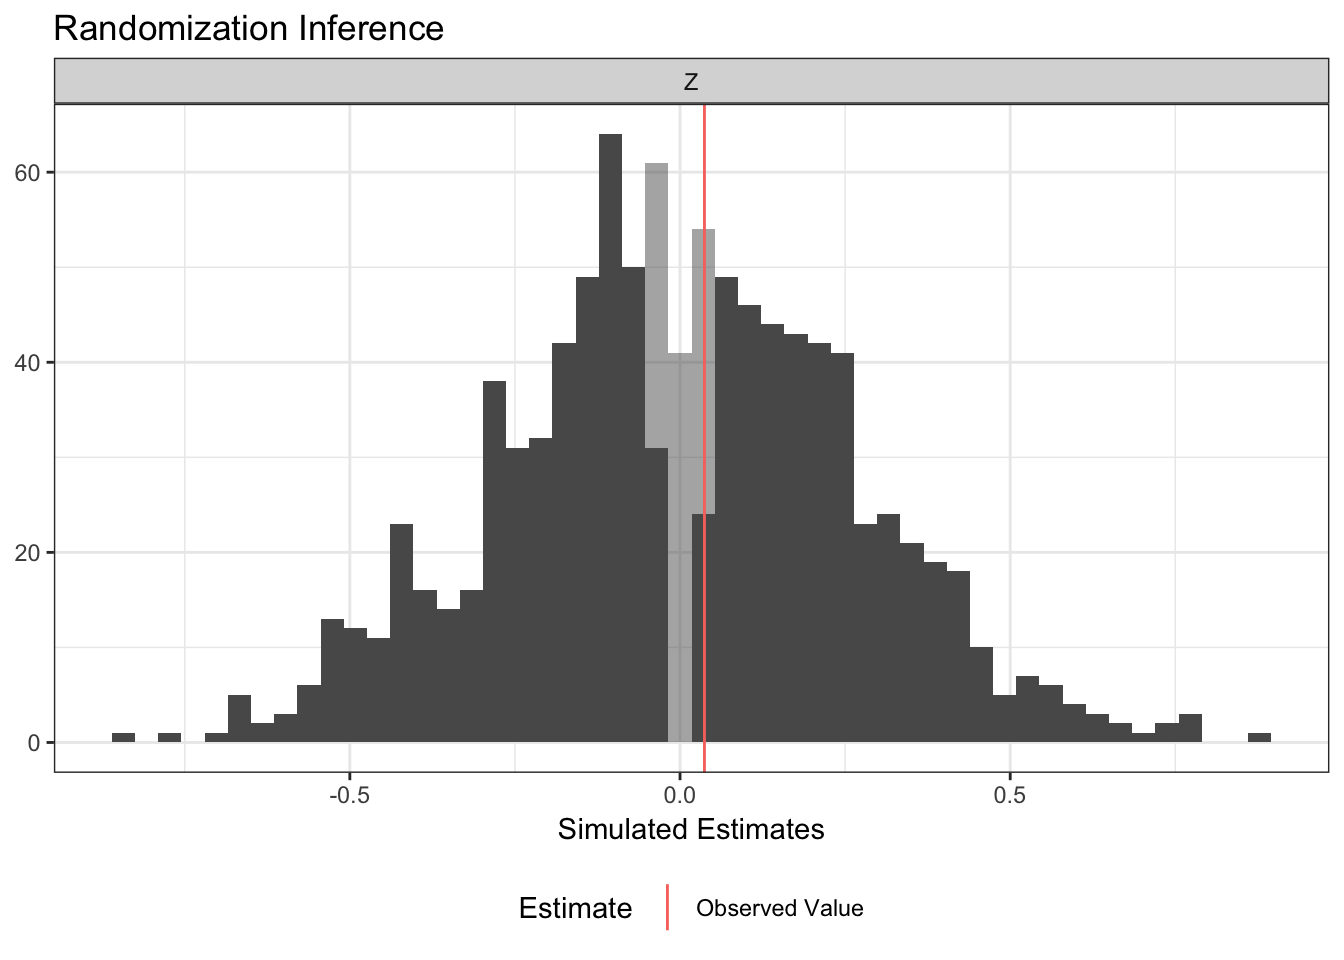
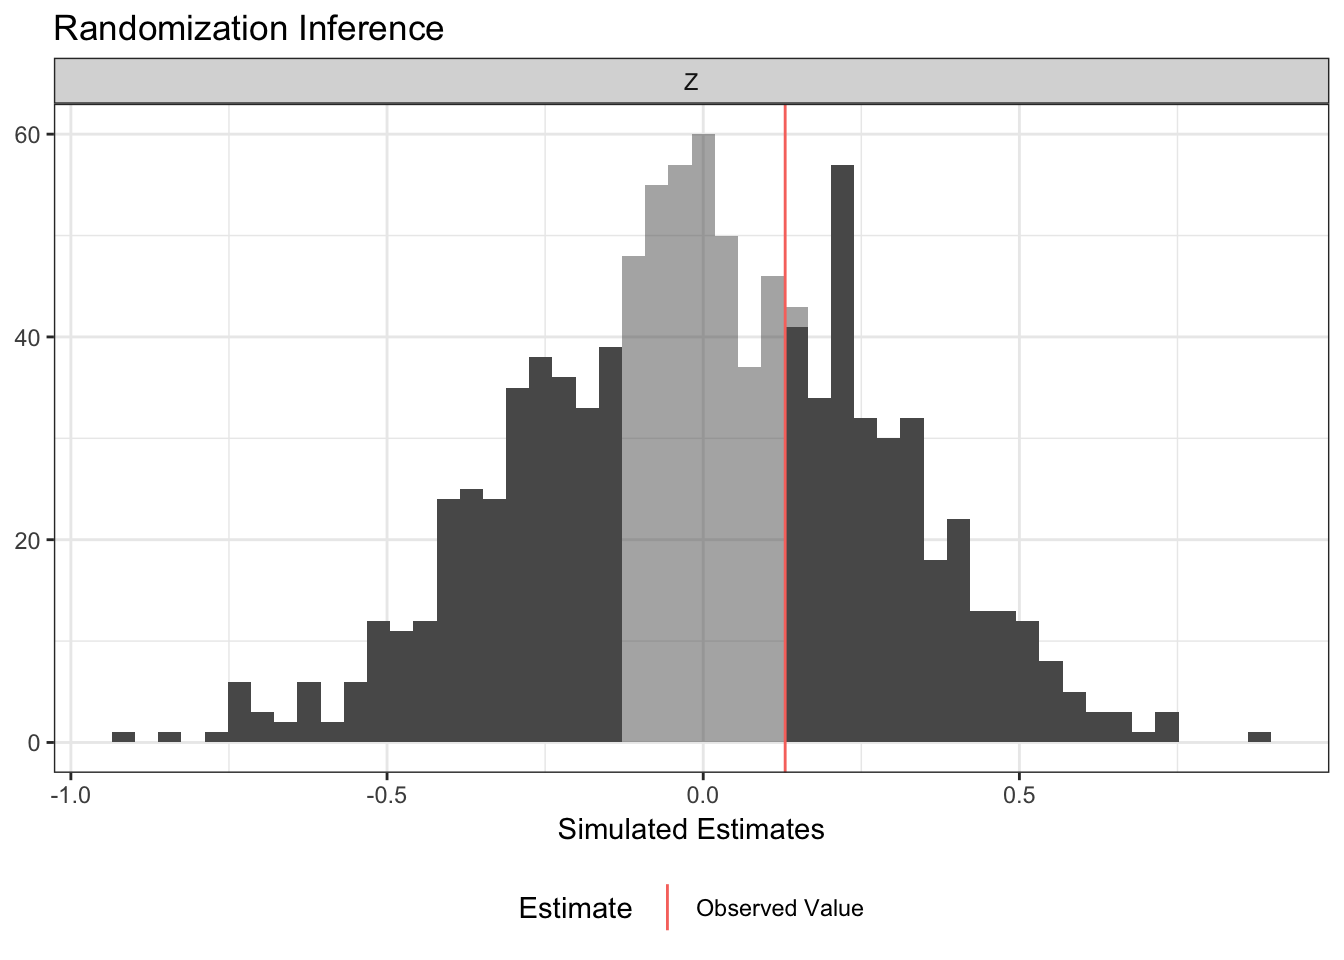
installation instructions

diff --git a/docs/articles/ri2_vignette.html b/docs/articles/ri2_vignette.html
@@ -204,9 +204,9 @@ ri2_out &lt;-
 <p><img src="ri2_vignette_files/figure-html/unnamed-chunk-4-1.png" width="672"></p>
 <div class="sourceCode"><pre class="sourceCode r"><code class="sourceCode r"><span class="kw">summary</span>(ri2_out)</code></pre></div>
 <pre><code>## # A tibble: 1 x 5
-##   coefficient   estimate p_value null_ci_lower null_ci_upper
-##        &lt;fctr&gt;      &lt;dbl&gt;   &lt;dbl&gt;         &lt;dbl&gt;         &lt;dbl&gt;
-## 1 F-statistic 0.07511485   0.929    0.03322868      3.886131</code></pre>
+##   coefficient estimate p_value null_ci_lower null_ci_upper
+##        &lt;fctr&gt;    &lt;dbl&gt;   &lt;dbl&gt;         &lt;dbl&gt;         &lt;dbl&gt;
+## 1 F-statistic  3.36322   0.035    0.03471928      3.842822</code></pre>
 <div class="sourceCode"><pre class="sourceCode r"><code class="sourceCode r"><span class="co"># for comparison</span>
 <span class="kw">anova</span>(<span class="kw">lm</span>(Y ~<span class="st"> </span><span class="dv">1</span>, <span class="dt">data =</span> df), 
       <span class="kw">lm</span>(Y ~<span class="st"> </span>Z, <span class="dt">data =</span> df))</code></pre></div>
@@ -214,9 +214,11 @@ ri2_out &lt;-
 ## 
 ## Model 1: Y ~ 1
 ## Model 2: Y ~ Z
-##   Res.Df    RSS Df Sum of Sq      F Pr(&gt;F)
-## 1     99 150.70                           
-## 2     97 150.46  2   0.23303 0.0751 0.9277</code></pre>
+##   Res.Df     RSS Df Sum of Sq      F  Pr(&gt;F)  
+## 1     99 104.694                              
+## 2     97  97.905  2    6.7892 3.3632 0.03871 *
+## ---
+## Signif. codes:  0 '***' 0.001 '**' 0.01 '*' 0.05 '.' 0.1 ' ' 1</code></pre>
 </div>
 <div id="interaction-terms" class="section level2">
 <h2 class="hasAnchor">
@@ -234,7 +236,7 @@ df &lt;-<span class="st"> </span><span class="kw">data.frame</span>(X, Y, Z)
 ate_hat &lt;-<span class="st"> </span><span class="kw">coef</span>(<span class="kw">lm</span>(Y ~<span class="st"> </span>Z, <span class="dt">data =</span> df))[<span class="dv">2</span>]
 ate_hat</code></pre></div>
 <pre><code>##         Z 
-## 0.4274541</code></pre>
+## 0.2452755</code></pre>
 <div class="sourceCode"><pre class="sourceCode r"><code class="sourceCode r">ri2_out &lt;-
 <span class="st">  </span><span class="kw"><a href="../reference/conduct_ri.html">conduct_ri</a></span>(
     <span class="dt">model_1 =</span> Y ~<span class="st"> </span>Z +<span class="st"> </span>X, <span class="co"># restricted model</span>
@@ -250,7 +252,7 @@ ate_hat</code></pre></div>
 <pre><code>## # A tibble: 1 x 5
 ##   coefficient estimate p_value null_ci_lower null_ci_upper
 ##        &lt;fctr&gt;    &lt;dbl&gt;   &lt;dbl&gt;         &lt;dbl&gt;         &lt;dbl&gt;
-## 1 F-statistic 7.279862   0.022    0.00085199      6.806784</code></pre>
+## 1 F-statistic 4.768296   0.041   0.001151761      6.010491</code></pre>
 <div class="sourceCode"><pre class="sourceCode r"><code class="sourceCode r"><span class="co"># for comparison</span>
 <span class="kw">anova</span>(<span class="kw">lm</span>(Y ~<span class="st"> </span>Z +<span class="st"> </span>X, <span class="dt">data =</span> df),
       <span class="kw">lm</span>(Y ~<span class="st"> </span>Z +<span class="st"> </span>X +<span class="st"> </span>Z*X, <span class="dt">data =</span> df))</code></pre></div>
@@ -258,9 +260,9 @@ ate_hat</code></pre></div>
 ## 
 ## Model 1: Y ~ Z + X
 ## Model 2: Y ~ Z + X + Z * X
-##   Res.Df     RSS Df Sum of Sq      F   Pr(&gt;F)   
-## 1     97 100.996                                
-## 2     96  93.877  1    7.1189 7.2799 0.008239 **
+##   Res.Df    RSS Df Sum of Sq      F  Pr(&gt;F)  
+## 1     97 108.49                              
+## 2     96 103.35  1    5.1336 4.7683 0.03143 *
 ## ---
 ## Signif. codes:  0 '***' 0.001 '**' 0.01 '*' 0.05 '.' 0.1 ' ' 1</code></pre>
 </div>
@@ -287,7 +289,7 @@ test_fun &lt;-<span class="st"> </span>function(data) {
 
 <span class="co"># confirm it works</span>
 <span class="kw">test_fun</span>(df)</code></pre></div>
-<pre><code>## [1] 0.3303045</code></pre>
+<pre><code>## [1] 0.2336569</code></pre>
 <div class="sourceCode"><pre class="sourceCode r"><code class="sourceCode r">ri2_out &lt;-
 <span class="kw"><a href="../reference/conduct_ri.html">conduct_ri</a></span>(
   <span class="dt">test_function =</span> test_fun,
@@ -304,7 +306,7 @@ test_fun &lt;-<span class="st"> </span>function(data) {
 <pre><code>## # A tibble: 1 x 5
 ##             coefficient  estimate p_value null_ci_lower null_ci_upper
 ##                  &lt;fctr&gt;     &lt;dbl&gt;   &lt;dbl&gt;         &lt;dbl&gt;         &lt;dbl&gt;
-## 1 Custom Test Statistic 0.3303045       0    -0.1796312     0.1772805</code></pre>
+## 1 Custom Test Statistic 0.2336569       0    -0.1240153     0.1100524</code></pre>
 </div>
 <div id="balance-test" class="section level2">
 <h2 class="hasAnchor">
@@ -329,7 +331,7 @@ balance_fun &lt;-<span class="st"> </span>function(data) {
 <span class="co"># Confirm it works!</span>
 <span class="kw">balance_fun</span>(df)</code></pre></div>
 <pre><code>##     value 
-## 0.6289607</code></pre>
+## 0.4468818</code></pre>
 <div class="sourceCode"><pre class="sourceCode r"><code class="sourceCode r">ri2_out &lt;-
 <span class="st">  </span><span class="kw"><a href="../reference/conduct_ri.html">conduct_ri</a></span>(
   <span class="dt">test_function =</span> balance_fun,
@@ -346,7 +348,7 @@ balance_fun &lt;-<span class="st"> </span>function(data) {
 <pre><code>## # A tibble: 1 x 5
 ##             coefficient  estimate p_value null_ci_lower null_ci_upper
 ##                  &lt;fctr&gt;     &lt;dbl&gt;   &lt;dbl&gt;         &lt;dbl&gt;         &lt;dbl&gt;
-## 1 Custom Test Statistic 0.6289607   0.606    0.07672795      3.465091</code></pre>
+## 1 Custom Test Statistic 0.4468818   0.723    0.07651139      2.941943</code></pre>
 <div class="sourceCode"><pre class="sourceCode r"><code class="sourceCode r"><span class="co"># For comparison</span>
 <span class="kw">summary</span>(<span class="kw">lm</span>(Z ~<span class="st"> </span>X1 +<span class="st"> </span>X2 +<span class="st"> </span>X3, <span class="dt">data =</span> df))</code></pre></div>
 <pre><code>## 
@@ -355,20 +357,20 @@ balance_fun &lt;-<span class="st"> </span>function(data) {
 ## 
 ## Residuals:
 ##      Min       1Q   Median       3Q      Max 
-## -0.65291 -0.48469  0.02257  0.48890  0.62866 
+## -0.67002 -0.49711  0.03343  0.49662  0.60197 
 ## 
 ## Coefficients:
-##             Estimate Std. Error t value Pr(&gt;|t|)   
-## (Intercept)  0.38281    0.11417   3.353  0.00114 **
-## X1          -0.04629    0.05351  -0.865  0.38917   
-## X2           0.05515    0.10206   0.540  0.59018   
-## X3           0.03441    0.03108   1.107  0.27113   
+##              Estimate Std. Error t value Pr(&gt;|t|)    
+## (Intercept)  0.512488   0.110029   4.658 1.03e-05 ***
+## X1          -0.053787   0.046509  -1.157    0.250    
+## X2          -0.013294   0.103047  -0.129    0.898    
+## X3          -0.003737   0.028881  -0.129    0.897    
 ## ---
 ## Signif. codes:  0 '***' 0.001 '**' 0.01 '*' 0.05 '.' 0.1 ' ' 1
 ## 
-## Residual standard error: 0.5054 on 96 degrees of freedom
-## Multiple R-squared:  0.01928,    Adjusted R-squared:  -0.01137 
-## F-statistic: 0.629 on 3 and 96 DF,  p-value: 0.5981</code></pre>
+## Residual standard error: 0.5068 on 96 degrees of freedom
+## Multiple R-squared:  0.01377,    Adjusted R-squared:  -0.01705 
+## F-statistic: 0.4469 on 3 and 96 DF,  p-value: 0.7201</code></pre>
 </div>
 </div>
 <div id="conclusion" class="section level1">

diff --git a/docs/index.html b/docs/index.html
@@ -80,7 +80,12 @@
 <li>Accommodation for arbitrary randomization schemes</li>
 <li>Accommodation for arbitrary (scalar) test statistics</li>
 </ol>
-<p>If you’d like to install the most current development release, use the following code:</p>
+<p>If you’d like to install the most current development release, you can do so using the <code>devtools</code> package. Since there’s some <code>Rcpp</code> in <code>ri2</code>, you’ll need some development tools as described on the <a href="https://www.rstudio.com/products/rpackages/devtools/">devtools page</a>.</p>
+<ul>
+<li>on a Mac, you have to first install Xcode (from the app store is easiest!)</li>
+<li>on Windows, install <code>Rtools</code> with <code>install.packages("Rtools")</code>.</li>
+</ul>
+<p>Then use the following code:</p>
 <div class="sourceCode"><pre class="sourceCode r"><code class="sourceCode r"><span class="kw">install.packages</span>(<span class="st">"devtools"</span>)
 devtools::<span class="kw">install_github</span>(<span class="st">"DeclareDesign/randomizr"</span>)
 devtools::<span class="kw">install_github</span>(<span class="st">"acoppock/ri2"</span>)</code></pre></div>
@@ -108,9 +113,9 @@ ri_out &lt;-
 <p><img src="README-unnamed-chunk-3-1.png" width="672"></p>
 <div class="sourceCode"><pre class="sourceCode r"><code class="sourceCode r"><span class="kw">summary</span>(ri_out)
 <span class="co">#&gt; # A tibble: 1 x 5</span>
-<span class="co">#&gt;   coefficient   estimate p_value null_ci_lower null_ci_upper</span>
-<span class="co">#&gt;         &lt;chr&gt;      &lt;dbl&gt;   &lt;dbl&gt;         &lt;dbl&gt;         &lt;dbl&gt;</span>
-<span class="co">#&gt; 1           Z 0.03696714   0.899    -0.5269656     0.5271363</span></code></pre></div>
+<span class="co">#&gt;   coefficient estimate p_value null_ci_lower null_ci_upper</span>
+<span class="co">#&gt;         &lt;chr&gt;    &lt;dbl&gt;   &lt;dbl&gt;         &lt;dbl&gt;         &lt;dbl&gt;</span>
+<span class="co">#&gt; 1           Z 0.129583   0.645    -0.5543382     0.5218571</span></code></pre></div>
 <p>The development of ri2 is supported by a Standards Grant from <a href="http://egap.org">EGAP</a>.</p>
 </div>
   </div>

diff --git a/README.md b/README.md
@@ -14,7 +14,12 @@ Additionally, ri2 provides:
 1.  Accommodation for arbitrary randomization schemes
 2.  Accommodation for arbitrary (scalar) test statistics
 
-If you'd like to install the most current development release, use the following code:
+If you'd like to install the most current development release, you can do so using the `devtools` package. Since there's some `Rcpp` in `ri2`, you'll need some development tools as described on the [devtools page](https://www.rstudio.com/products/rpackages/devtools/).
+
+-   on a Mac, you have to first install Xcode (from the app store is easiest!)
+-   on Windows, install `Rtools` with `install.packages("Rtools")`.
+
+Then use the following code:
 
 ``` r
 install.packages("devtools")
@@ -52,9 +57,9 @@ plot(ri_out)
 ``` r
 summary(ri_out)
 #> # A tibble: 1 x 5
-#>   coefficient   estimate p_value null_ci_lower null_ci_upper
-#>         <chr>      <dbl>   <dbl>         <dbl>         <dbl>
-#> 1           Z -0.3115602   0.309    -0.6334962     0.5842738
+#>   coefficient  estimate p_value null_ci_lower null_ci_upper
+#>         <chr>     <dbl>   <dbl>         <dbl>         <dbl>
+#> 1           Z 0.3463238   0.144    -0.4767303      0.471311
 ```
 
 The development of ri2 is supported by a Standards Grant from [EGAP](http://egap.org).
